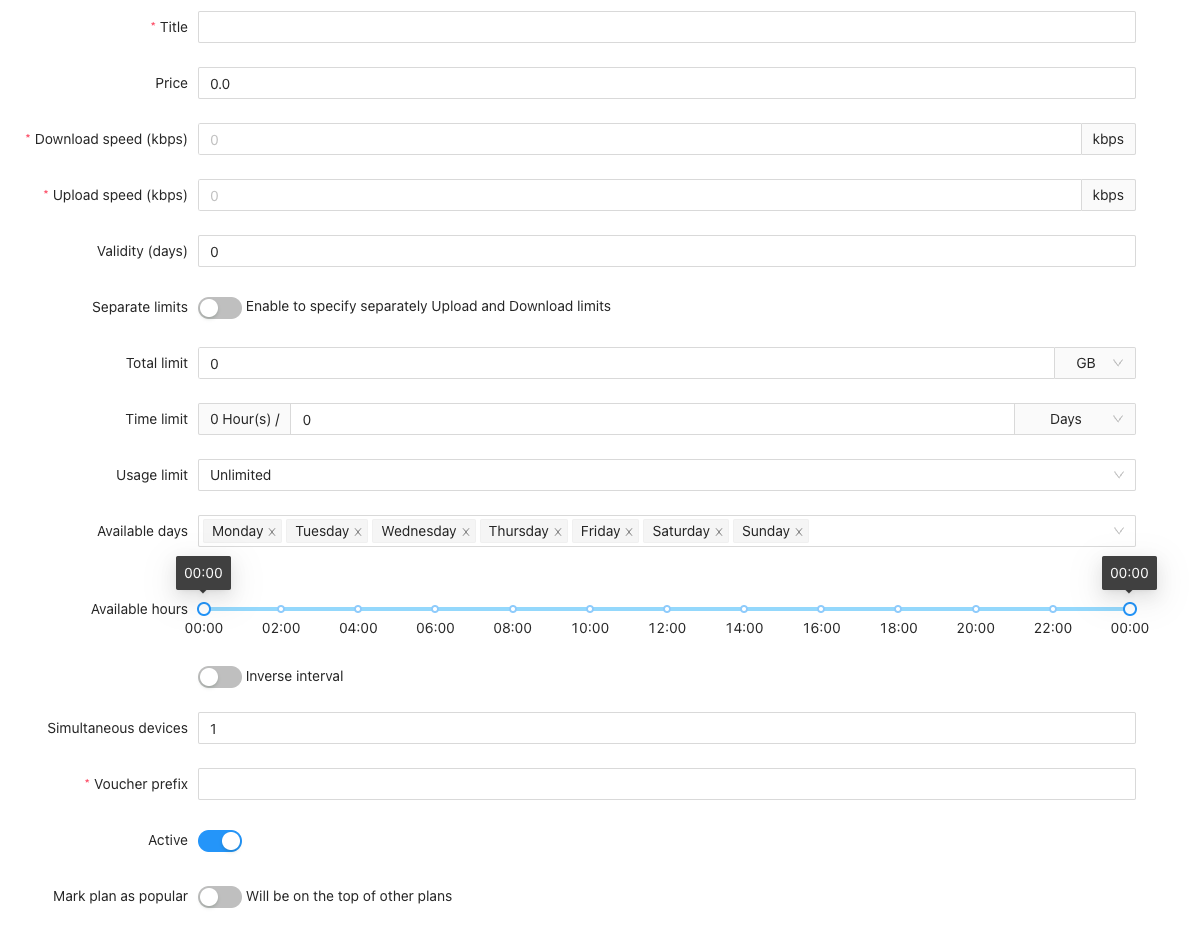
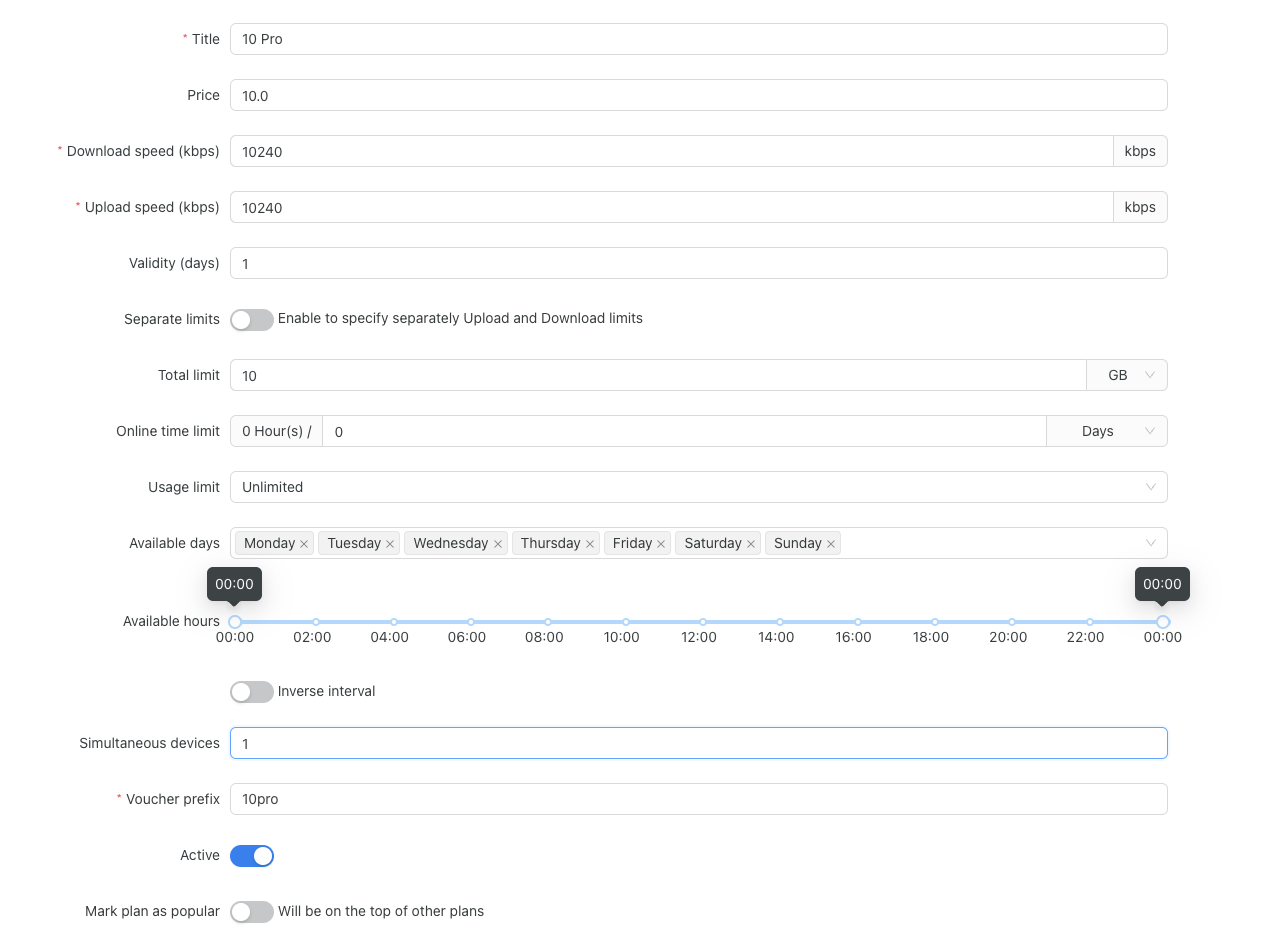
Rework structure and add improve documentation

diff --git a/system/data-plans.md b/system/data-plans.md
@@ -1,7 +1,8 @@
 # Data plans
 
 Data plans are offering subscription templates describing how customers can access the network and what limitations they will have.
-Limitations can be network speed, traffic amount limitations, online time, and plan availability depending on the day of the week or time.
+Limitations can be network speed, traffic amount limitations, online time, and plan availability depending on the day of the week or time. 
+Tariff plans in Powerlynx are templates for [vouchers](/system/vouchers.md) used for granting users network access.
 
 You can view the list of all data plans and create a new one on the **Data plans** main menu section.
 
@@ -49,13 +50,33 @@ Other plan options:
 
 * **Voucher prefix** – the prefix that will be used for generating vouchers series for this plan.
 
-* **Active** – the checkbox to enable or disable the plan.
+* **Active** – the checkbox to enable or disable the plan. If it plan is disabled, it will not be displayed on the splash page.
 
 * **Mark plan as popular** – the checkbox to mark the plan as popular. It will be displayed on the top of the list of plans on the splash page.
 
 ## Enabled data plans available for location
 
-Customers can select data plans or buy using [payment gateways](/todo) on the [splash pages](/system/splash-pages.md) while trying to connect to Wi-Fi. For this, you should enable plans for the location.
+Customers can select data plans or buy using payment gateways on the [splash pages](/system/splash-pages.md) while trying to connect to Wi-Fi. For this, you should enable plans for the location.
 To enable a data plan for a location, go to the ```Locations``` section location from a list, where you want to enable/disable the plan, click on the ```Plans``` tab, and enable or disable data plans using checkboxes **Enabled** to select the plans you want to allow for this location.
 
 ![Select plans for locations](images/select-plans-for-locations.png)
+
+## Usage example
+
+### Example №1. Plan with traffic limitation and expiration after 1 day
+
+![Example 1](images/exmple-expire-after-1-day.png)
+
+In this configuration case, the user can use 10 GB download and 10 GB upload traffic one day after buying the plan. After one day, the plan will expire, and the user will be disconnected or can't connect to the network.
+
+### Example №2. Plan with usage time limitation
+
+![Example 2](images/used-after-1h-online.png)
+
+In this case, the user can be online for 1 hour. Use can split this 1 hour into several sessions. For example, the user can be online for 30 minutes, then disconnect and connect again for 30 minutes. After 1 hour of online time, the user will be disconnected, and the voucher will be in used status. In this case, the user can't have traffic limitations.
+
+### Example №3. Plan with traffic and time limitations
+
+![Example 3](images/traffic-and-time-limitations.png)
+
+In this case, the user can use 10 GB to download and upload traffic in total and be online for 1 hour. After reaching one of these limits, the user will be disconnected, and the voucher will be in used status. The user will have only one day to use this voucher because the voucher expires after one day (value in `Validity` field).
